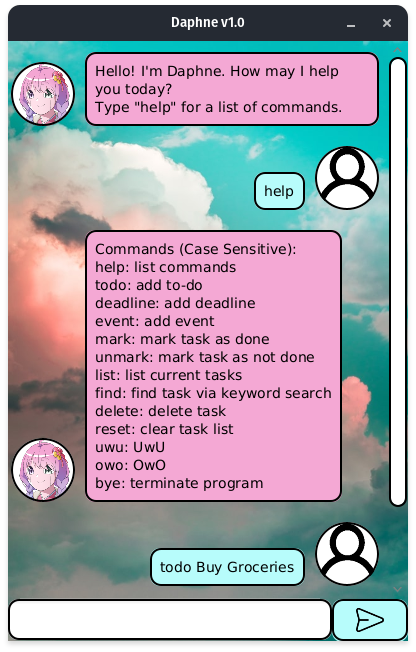
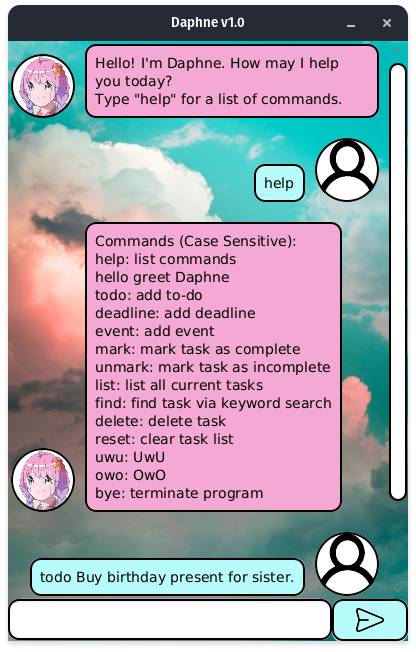
Add user guide

Changed region(s): [[0.0, 0.0613, 0.9375, 0.9202], [0.9375, 0.0613, 1.0, 0.1227], [0.9375, 0.7362, 0.9688, 0.7975]]

diff --git a/src/main/java/chatbot/command/HelpCommand.java b/src/main/java/chatbot/command/HelpCommand.java
@@ -21,15 +21,16 @@ public class HelpCommand extends Command {
 
         String output = "Commands (Case Sensitive):\n";
         output += HelpCommand.TRIGGER + ": list commands\n";
+        output += HelloCommand.TRIGGER + " greet Daphne\n";
 
         output += ToDoCommand.TRIGGER + ": add to-do\n";
         output += DeadlineCommand.TRIGGER + ": add deadline\n";
         output += EventCommand.TRIGGER + ": add event\n";
 
-        output += MarkCommand.TRIGGER + ": mark task as done\n";
-        output += UnmarkCommand.TRIGGER + ": mark task as not done\n";
+        output += MarkCommand.TRIGGER + ": mark task as complete\n";
+        output += UnmarkCommand.TRIGGER + ": mark task as incomplete\n";
 
-        output += ListCommand.TRIGGER + ": list current tasks\n";
+        output += ListCommand.TRIGGER + ": list all current tasks\n";
         output += FindCommand.TRIGGER + ": find task via keyword search\n";
         output += DeleteCommand.TRIGGER + ": delete task\n";
         output += ResetCommand.TRIGGER + ": clear task list\n";

diff --git a/src/main/java/chatbot/ChatBot.java b/src/main/java/chatbot/ChatBot.java
@@ -31,7 +31,7 @@ import javafx.util.Duration;
  */
 public class ChatBot extends Application {
     public static final String APPLICATION_NAME = "Daphne v1.0";
-    public static final String SAVE_FILE = "./data/save_file";
+    public static final String SAVE_FILE = "./daphne/tasks.save";
 
     private final CommandList commandList;
     private final TaskList taskList;

diff --git a/README.md b/README.md
@@ -6,20 +6,23 @@ This is Daphne, a friendly bot to help you keep track of your tasks!
 
 ![](docs/Ui.png)
 
-## Commands
+## Features
+| Feature   | Description                                                                      | Command (Case Sensitive)                                                  |  
+|-----------|----------------------------------------------------------------------------------|---------------------------------------------------------------------------|
+| Help      | Lists all commands.                                                              | `help`                                                                    |
+| Hello     | Greets Daphne.                                                                   | `hello`                                                                   |
+| ToDo      | Add a task without any data/time attached to it.                                 | `todo <DESCRIPTION>`                                                      |
+| Deadline  | Add a task that needds to be done before a specific date/time.                   | `deadline <DESCRIPTION> /by <YYYY-MM-DD> <HH:MM>`                         |
+| Event     | Add a task that starts at a specific date/time and ends at a specific date/time. | `event <DESCRIPTION> /at <START DATE> <START TIME> <END DATE> <END TIME>` |
+| Mark      | Mark a task as complete.                                                         | `mark <INDEX>`                                                            |
+| Unmark    | Mark a task as incomplete.                                                       | `unmark <INDEX>`                                                          |
+| Delete    | Delete a task.                                                                   | `delete <INDEX> `                                                         |
+| Reset     | Delete all tasks.                                                                | `reset`                                                                   |
+| Find      | Find a task based on a keyword.                                                  | `find <KEYWORD>`                                                          |
+| List      | List all current tasks.                                                          | `list`                                                                    |
+| UwU       | (⁄˘⁄ ⁄ ω⁄ ⁄ ˘⁄)♡                                                                 | `uwu`                                                                     |
+| OwO       | (。O⁄ ⁄ω⁄ ⁄ O。)                                                                  | `owo`                                                                     |
+| Terminate | Terminate the application.                                                       | `bye`                                                                      |
 
-Here are some things Daphne can do for you.
-
-Hello: `hello`  
-List All Commands: `help`
-Track To-Dos: `todo <desc>`  
-Track Deadlines: `deadline <desc> /by <date> <time>`  
-Track Events: `event <desc> /at <start_date> <start_time> <end_date> <end_time>`
-Mark Tasks: `mark <index>`  
-Unmark Tasks: `unmark <index>`
-Delete Tasks: `delete <index>` (deletes the task at the specified index), `reset` (deletes all tasks)
-Find Tasks: `find <keyword>`  
-List Tasks: `list`  
-UwU: `uwu`  
-OwO: `owo`  
-Terminate Program: `bye`  
+*Dates are required to be in the `YYYY-MM-DD` format.*  
+*Times are required to be in the `HH:MM` or `HH:MM:SS` format.*

diff --git a/docs/README.md b/docs/README.md
@@ -10,3 +10,29 @@
 6. Type `help` for the list of commands.
 
 ## Features
+| Feature   | Description                                                                      | Command (Case Sensitive)                                                  |  
+|-----------|----------------------------------------------------------------------------------|---------------------------------------------------------------------------|
+| Help      | Lists all commands.                                                              | `help`                                                                    |
+| Hello     | Greets Daphne.                                                                   | `hello`                                                                   |
+| ToDo      | Add a task without any data/time attached to it.                                 | `todo <DESCRIPTION>`                                                      |
+| Deadline  | Add a task that needds to be done before a specific date/time.                   | `deadline <DESCRIPTION> /by <DATE> <TIME>`                                |
+| Event     | Add a task that starts at a specific date/time and ends at a specific date/time. | `event <DESCRIPTION> /at <START DATE> <START TIME> <END DATE> <END TIME>` |
+| Mark      | Mark a task as complete.                                                         | `mark <INDEX>`                                                            |
+| Unmark    | Mark a task as incomplete.                                                       | `unmark <INDEX>`                                                          |
+| Delete    | Delete a task.                                                                   | `delete <INDEX> `                                                         |
+| Reset     | Delete all tasks.                                                                | `reset`                                                                   |
+| Find      | Find a task based on a keyword.                                                  | `find <KEYWORD>`                                                          |
+| List      | List all current tasks.                                                          | `list`                                                                    |
+| UwU       | (⁄˘⁄ ⁄ ω⁄ ⁄ ˘⁄)♡                                                                 | `uwu`                                                                     |
+| OwO       | (。O⁄ ⁄ω⁄ ⁄ O。)                                                                  | `owo`                                                                     |
+| Terminate | Terminate the application.                                                       | `bye`                                                                     |
+
+*Dates are required to be in the `YYYY-MM-DD` format.*  
+*Times are required to be in the `HH:MM` or `HH:MM:SS` format.*
+
+## Saving
+Data is automatically saved in the directory Daphne is run from.
+### [Linux](https://pop.system76.com/)
+It is most likely located in `~/daphne/tasks.save`.
+### Windows
+It is most likely located in `[Daphne JAR file location]/daphne/tasks.save`.
